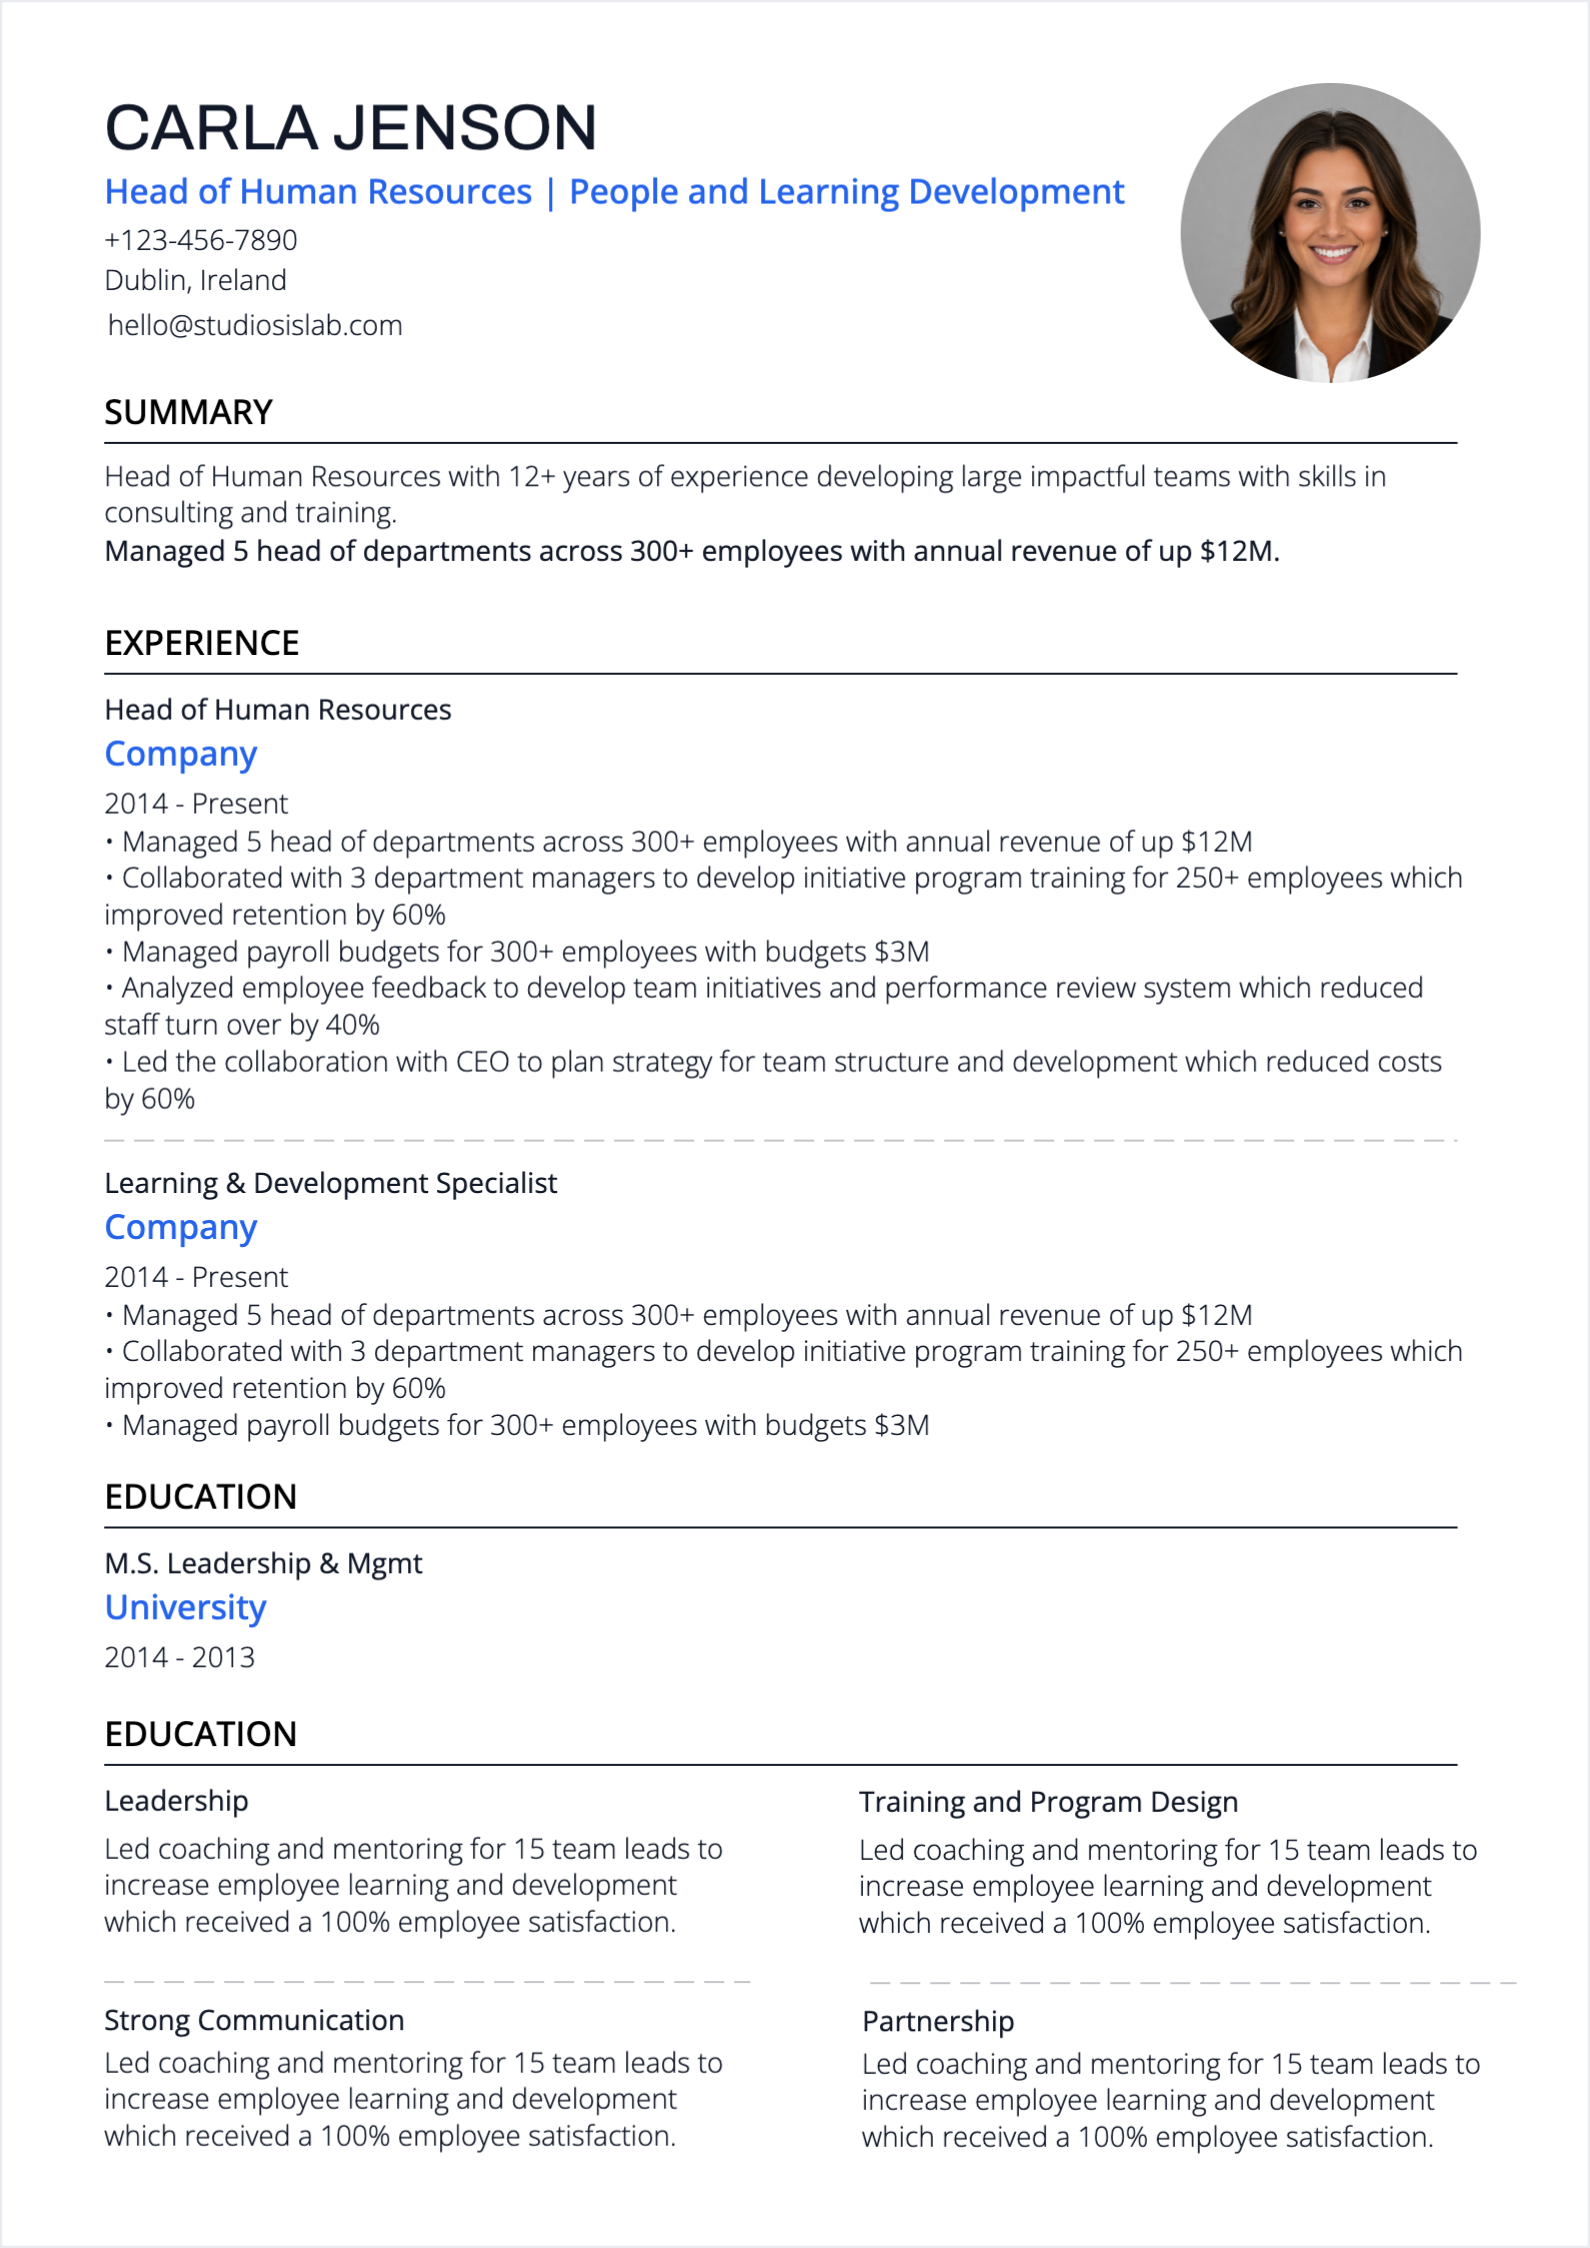
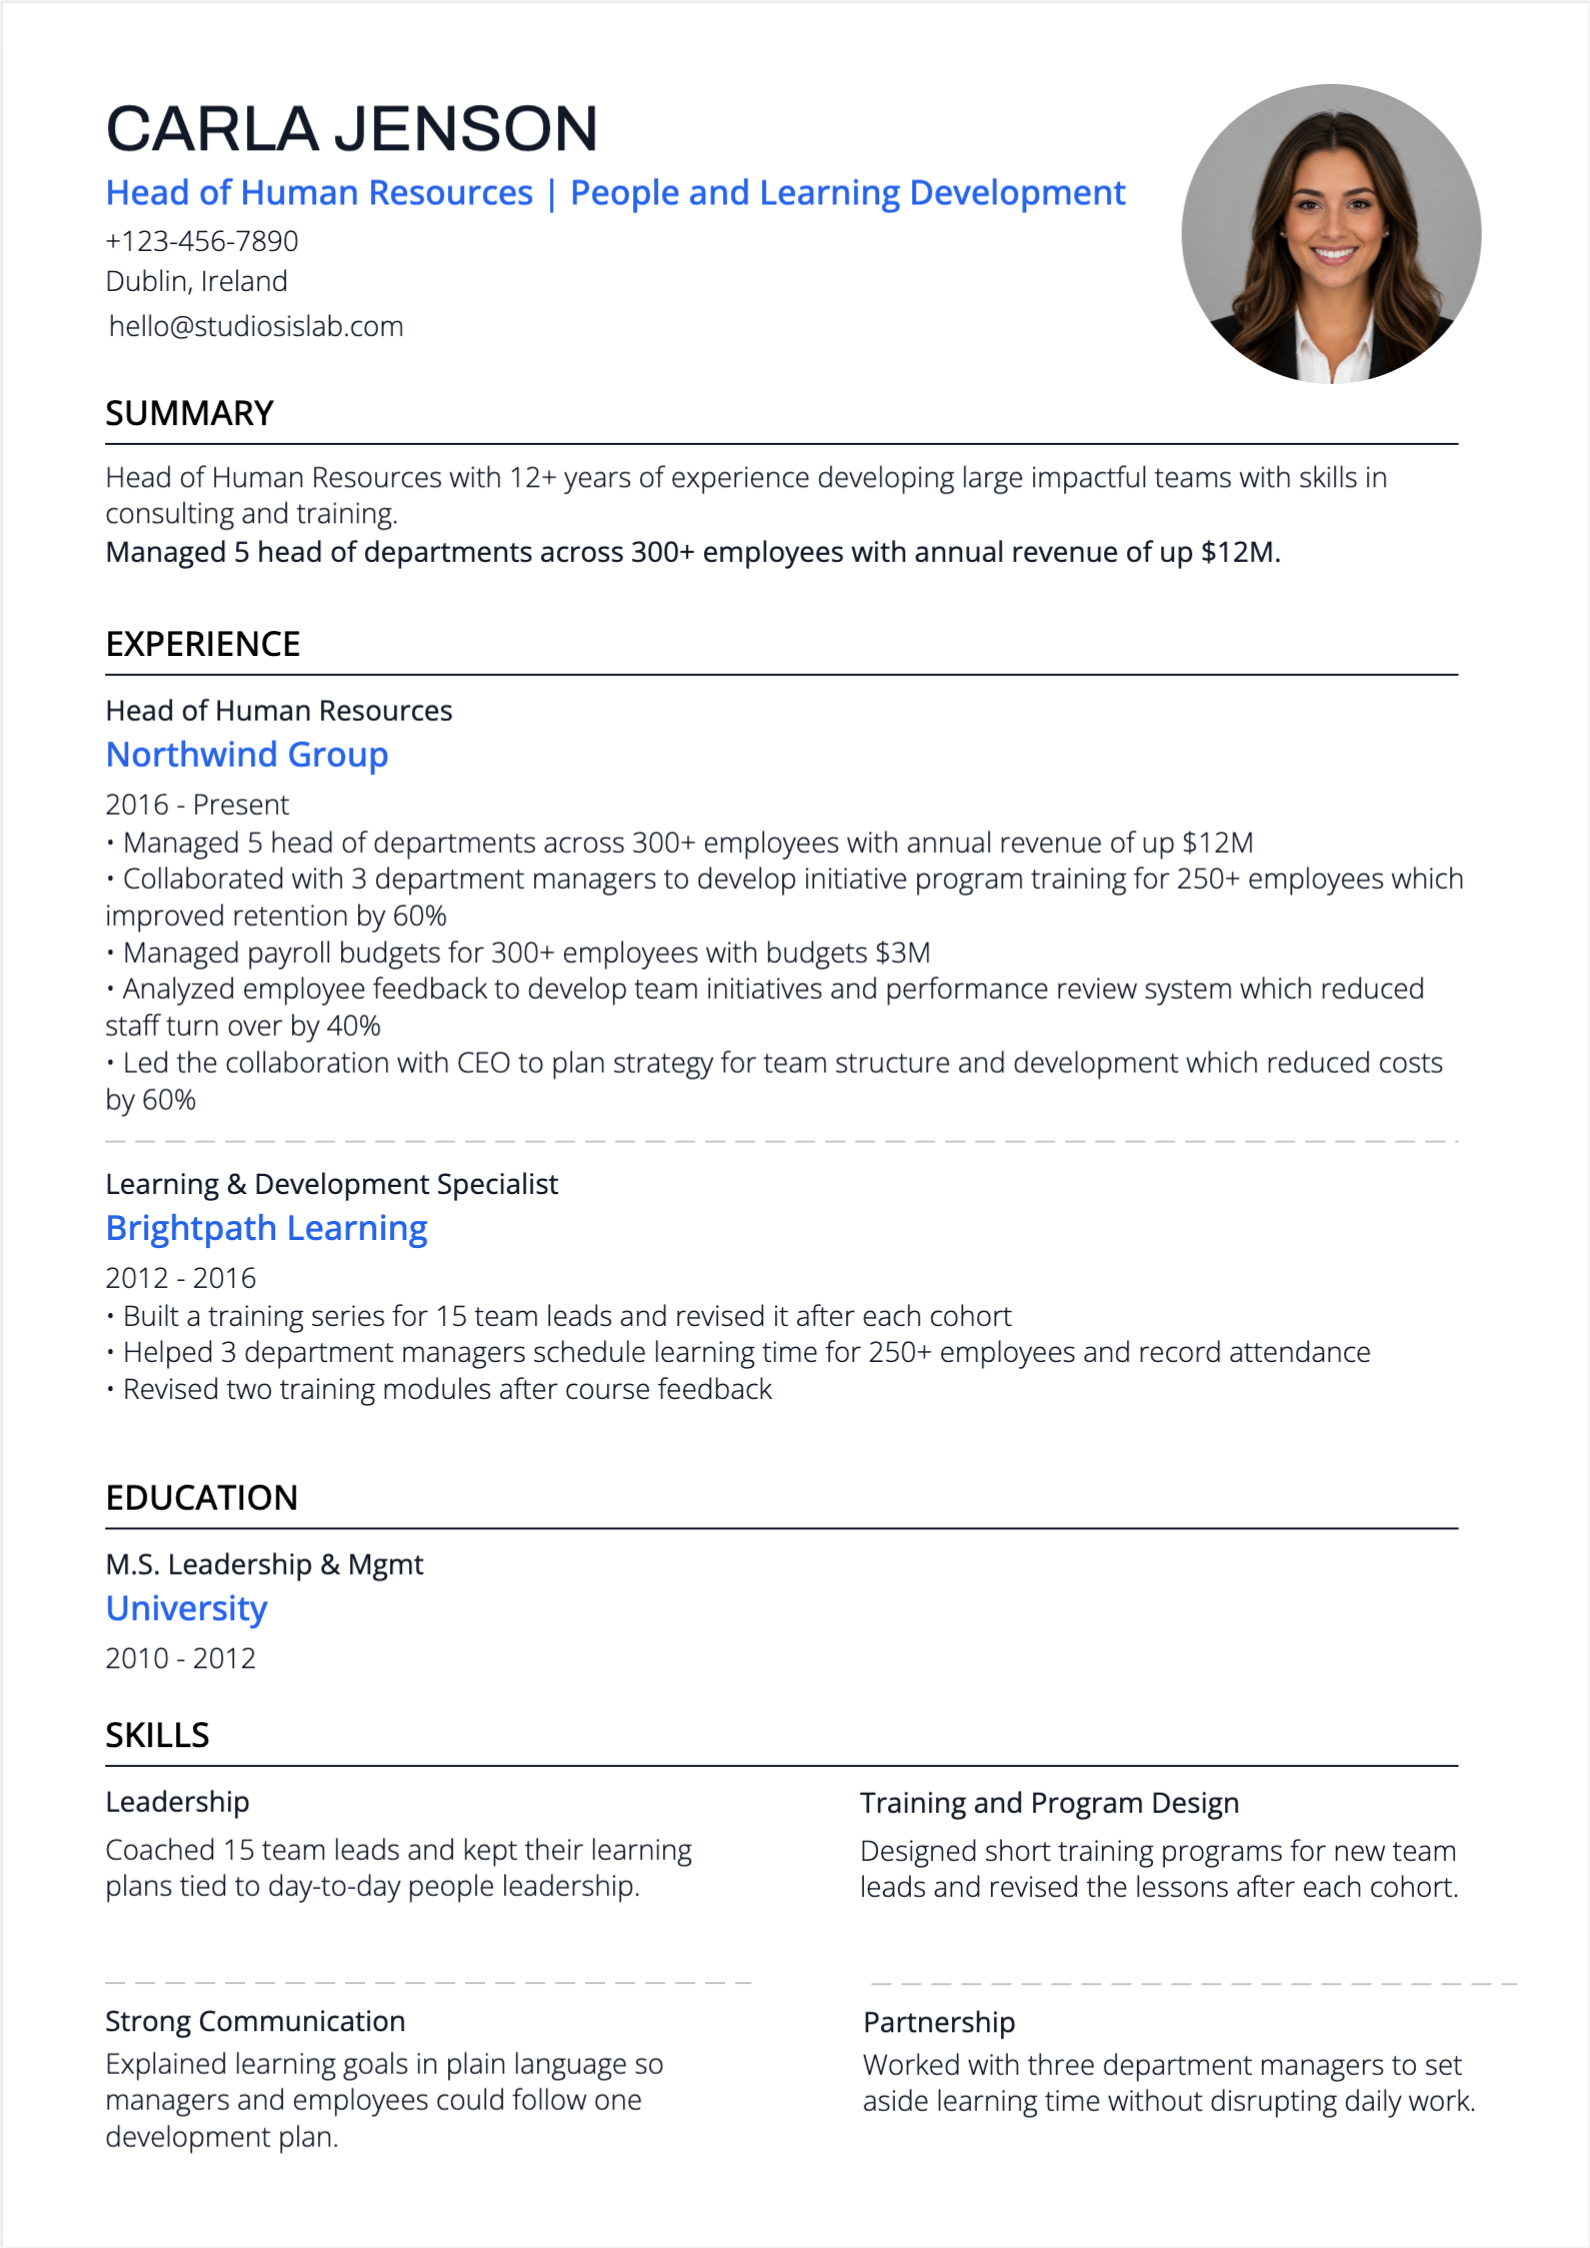
Correct HR Manager resume sample and previews

diff --git a/src/data/templateSeoContent.ts b/src/data/templateSeoContent.ts
@@ -1216,7 +1216,7 @@ export const TEMPLATE_SEO_CONTENT: TemplateSeoEntry[] = [
       "Human resources manager resume template focused on recruitment, employee relations, HR operations, compliance, onboarding, and workforce planning.",
     h1: "Human Resources Manager Resume Template",
     intro:
-      "HR manager hiring teams look for evidence of strong people operations and policy execution at scale. This template helps you present recruitment leadership, employee relations, compliance support and workforce planning work in a structure that ATS systems and HR leaders can review quickly.",
+      "This sample shows a fictional Head of Human Resources with earlier learning and development work. Replace the names, employers, dates and results with your own experience.",
     bestFor: [
       "HR managers overseeing recruitment, onboarding and employee lifecycle operations.",
       "People leaders handling employee relations, policy application and compliance coordination.",
